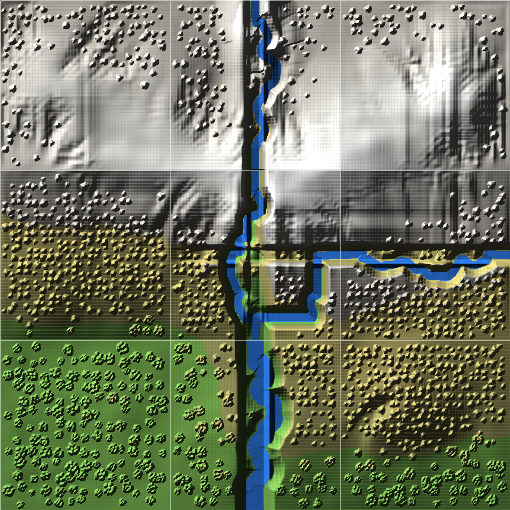
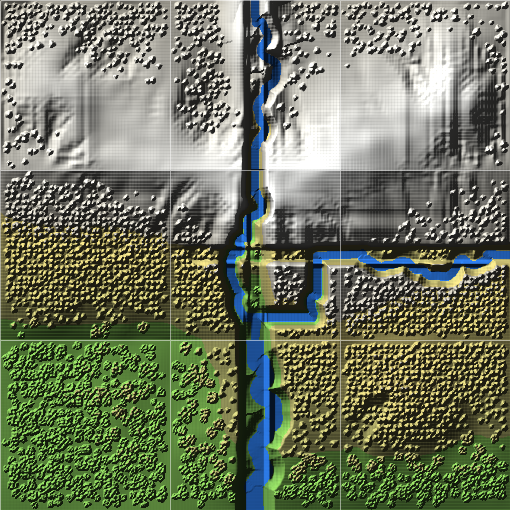
Let crowns overlap, so a dense wood reads as canopy
Two things stopped it, and the first was a wrong spacing law rather than a
taste setting.

Dividing the crown footprint by the target cover assumes crowns never land
on each other. They do, and once they do every extra tree covers less new
ground than the last, so cover saturates. At density 1 the spacing came out
at 0.89 of a crown diameter -- crowns just touching, ground visible between
them, 58% measured cover, and a closed canopy that still read as a scatter
of separate trees. Scattered crowns cover ground like a Poisson process, so
cover = 1 - exp(-A/s^2) and s = sqrt(A / -ln(1-cover)). At density 1 that
is 0.39 of a crown diameter, which is real overlap, and measured cover goes
to 94%.

The second was mine to own: crowns combined with a hard max, which creases
where two cross, so even overlapping trees read as separate trees pressed
together. They now fuse with a soft union over a fraction of the tree
height. Far apart it is exactly max, so a lone tree is untouched and low
density still reads as distinct trees -- which was the half that was
already right and the half worth keeping.

A test that asserted the OLD behaviour is now reversed. It claimed you
cannot cover every square millimetre by scattering discs and pinned cover
below 0.95 so nobody would "fix" it. That was over-general: you cannot at a
fixed spacing, but the spacing is not fixed. It had pinned a limitation of
the formula as though it were a fact about trees.
[…]

diff --git a/lib/canopy.js b/lib/canopy.js
@@ -20,9 +20,13 @@
 // Conifer is a cone, with the spire slightly convex and a few branch whorls
 // stepped into the flank, because a plain cone reads as a traffic bollard.
 //
-// Crowns combine with MAX, never by adding. Adding makes a dense wood swell
-// into one mound and lose every crown edge; max keeps the gaps between
-// trees, and the gaps are what the eye reads as trees.
+// Crowns combine with a SMOOTH MAX, never by adding. Adding makes a dense
+// wood swell into one mound and lose every crown edge. A plain max keeps
+// the edges but creases where two crowns cross, so a dense stand reads as
+// separate trees pressed together rather than as canopy. The soft union
+// does both: far apart it is exactly max and low density still reads as
+// distinct trees; where crowns overlap they interlock, as they do in a
+// closed stand.
 //
 // EVERYTHING IS MILLIMETRES ON THE PLATE. Trees are placed after the tile
 // has been conformed to its contract and are kept clear of the rim by their
@@ -83,6 +87,10 @@ export const CANOPY_DEFAULTS = {
   // maxZMM (and above minZMM) the wood thins out instead of stopping dead,
   // which is what the edge of a real one does.
   thinningMM: 0,
+  // How far crowns fuse where they overlap. 0 is a hard max, which creases.
+  // Scaled with the crown in scatterCanopy, so it means the same thing on a
+  // hedge and on a mature canopy.
+  mergeFraction: 0.18,
 };
 
 /**
@@ -121,13 +129,44 @@ export function crownFootprintMM2(o, stepMM = Math.max(0.2, o.crownMM / 24)) {
 /**
  * Trunk spacing for a target canopy cover. See `density`.
  *
- * Above about 0.7 the crowns start landing on each other, so measured cover
- * rises more slowly than asked: 1.0 means a closed canopy, not literally
- * every square millimetre.
+ * THE OVERLAP CORRECTION, which the first version did not have and which is
+ * the whole reason a dense wood did not read as one.
+ *
+ * Dividing the footprint by the target cover assumes crowns never land on
+ * each other, and it is fine while they do not. Once they do, every extra
+ * tree covers less new ground than the last, so cover saturates: at
+ * `density: 1` the spacing came out at 0.89 of a crown diameter -- crowns
+ * just touching, ground visible between them, and a closed canopy that
+ * still read as a scatter of separate trees.
+ *
+ * Scattered crowns cover ground like a Poisson process, so the fraction
+ * NOT covered is exp(-lambda*A) and
+ *
+ *     cover = 1 - exp(-A / s^2)    =>    s = sqrt( A / -ln(1 - cover) )
+ *
+ * At 1.0 that is 0.39 of a crown diameter instead of 0.89, which is proper
+ * overlap. A jittered grid spreads trees out a little more evenly than
+ * Poisson, so this errs toward denser, which is the right way to err.
  */
 export function spacingForDensity(o) {
-  const cover = Math.max(0.004, Math.min(1.0, o.density));
-  return Math.sqrt(crownFootprintMM2(o) / cover);
+  const cover = Math.max(0.004, Math.min(0.995, o.density));
+  return Math.sqrt(crownFootprintMM2(o) / -Math.log(1 - cover));
+}
+
+/**
+ * Smooth maximum: the polynomial soft union, blending over a width of k.
+ *
+ * A plain max of two crowns leaves a sharp crease where they cross, so a
+ * dense wood comes out as separate trees pressed together rather than as
+ * canopy. Real crowns in a closed stand interlock. Below k the two fuse;
+ * well apart, this is exactly max, so a lone tree is unaffected and low
+ * density still reads as distinct trees -- which is the half that was
+ * already right.
+ */
+export function smoothMax(a, b, k) {
+  if (!(k > 0)) return a > b ? a : b;
+  const h = Math.max(0, Math.min(1, 0.5 + (0.5 * (a - b)) / k));
+  return b + (a - b) * h + k * h * (1 - h);
 }
 
 /**
@@ -328,6 +367,7 @@ export function scatterCanopy(local, opts = {}) {
   // is added to the ground -- so a tree on a slope stands up from the slope
   // rather than being sliced off by it.
   const add = new Float64Array(nx * ny);
+  const mergeMM = Number.isFinite(o.mergeMM) ? o.mergeMM : o.mergeFraction * o.heightMM;
   for (const t of trees) {
     const R = t.crownMM / 2;
     const i0 = Math.max(0, Math.floor((t.x - R * 1.2) / step));
@@ -339,7 +379,10 @@ export function scatterCanopy(local, opts = {}) {
         const h = crownHeight(t, i * step - t.x, j * step - t.y);
         if (h <= 0) continue;
         const k = j * nx + i;
-        if (h > add[k]) add[k] = h;
+        // Fuse with whatever is already there, but only where there IS
+        // something: blending against bare ground would lift a skirt of
+        // soil around every isolated tree.
+        add[k] = add[k] > 0 ? smoothMax(add[k], h, mergeMM) : h;
       }
     }
   }

diff --git a/README.md b/README.md
@@ -472,9 +472,31 @@ measured at runtime by stamping one tree and counting, because every shape
 parameter changes the answer and a constant calibrated once would drift the
 next time one was tuned.
 
-Above about 0.7 the crowns start landing on each other, so measured cover
-rises more slowly than asked. You cannot cover every square millimetre by
-scattering discs; `1.0` means a closed canopy, not literally 100%.
+**Crowns are meant to overlap, and the spacing law has to allow for it.**
+Dividing the footprint by the target cover assumes they never land on each
+other. They do, and once they do every extra tree covers less new ground than
+the last — so `density: 1` came out at 0.89 of a crown diameter, crowns just
+touching, ground visible between them, and a closed canopy that still read as
+a scatter of separate trees.
+
+Scattered crowns cover ground like a Poisson process, so
+
+```
+cover = 1 − exp(−A / s²)    ⟹    s = √( A / −ln(1 − cover) )
+```
+
+At `1.0` that is **0.39** of a crown diameter instead of 0.89, which is proper
+overlap, and measured cover goes from 58% to 94%. (An earlier version of this
+file claimed you simply cannot cover every square millimetre by scattering
+discs. That was over-general — you cannot at a *fixed* spacing, but the
+spacing is not fixed.)
+
+And they fuse rather than crease. A plain `max` of two crowns leaves a sharp
+V where they cross, so a dense stand reads as separate trees pressed together.
+A soft union blends them over `mergeFraction` of the tree height: far apart it
+is exactly `max`, so a lone tree is untouched and low density still reads as
+distinct trees — where they overlap, they interlock, as crowns do in a closed
+stand.
 
 To see the range rather than guess at it:
 
@@ -499,9 +521,8 @@ above is many bumps at a quarter the width of the crown, so it is nine lobes
 at under a third of the radius, over a small core that only exists to stop the
 crown having a hole in the middle.
 
-Crowns combine with **max**, never by adding. Adding makes a dense wood swell
-into one mound and lose every crown edge; max keeps the gaps, and the gaps are
-what the eye reads as trees.
+Crowns combine with a **smooth max**, never by adding. Adding makes a dense
+wood swell into one mound and lose every crown edge.
 
 | rule | why |
 |---|---|
@@ -648,7 +669,7 @@ project and are **not** worked around here:
 npm test
 ```
 
-93 checks. The ones that earn their keep:
+94 checks. The ones that earn their keep:
 
 - every finished tile honours its edge contract **exactly** (< 1e-6 mm)
 - every finished tile is a **closed solid** — no unpaired edges, no overused
@@ -680,6 +701,10 @@ npm test
   pile up
 - a lobed crown does not fill its nominal circle and a cone roughly does —
   the reason the footprint is measured rather than assumed
+- spacing accounts for crowns landing on each other; density 1 is a closed
+  canopy with the ground hidden
+- crowns fuse where they overlap instead of creasing, and a lone tree is
+  untouched by the fusing
 - **a river follows the valley the glacier left** — the regression for a
   router that never read the terrain
 - a river will not climb a ridge to save distance
